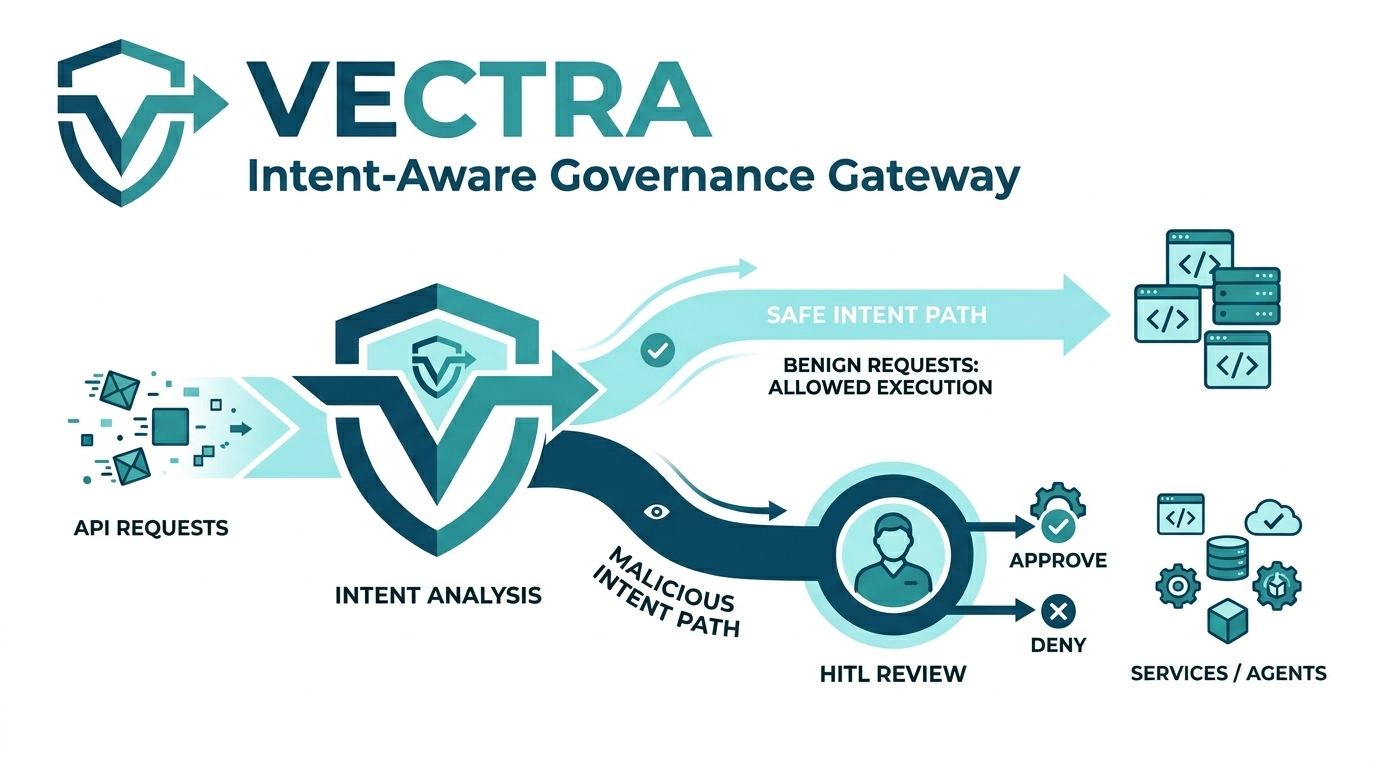
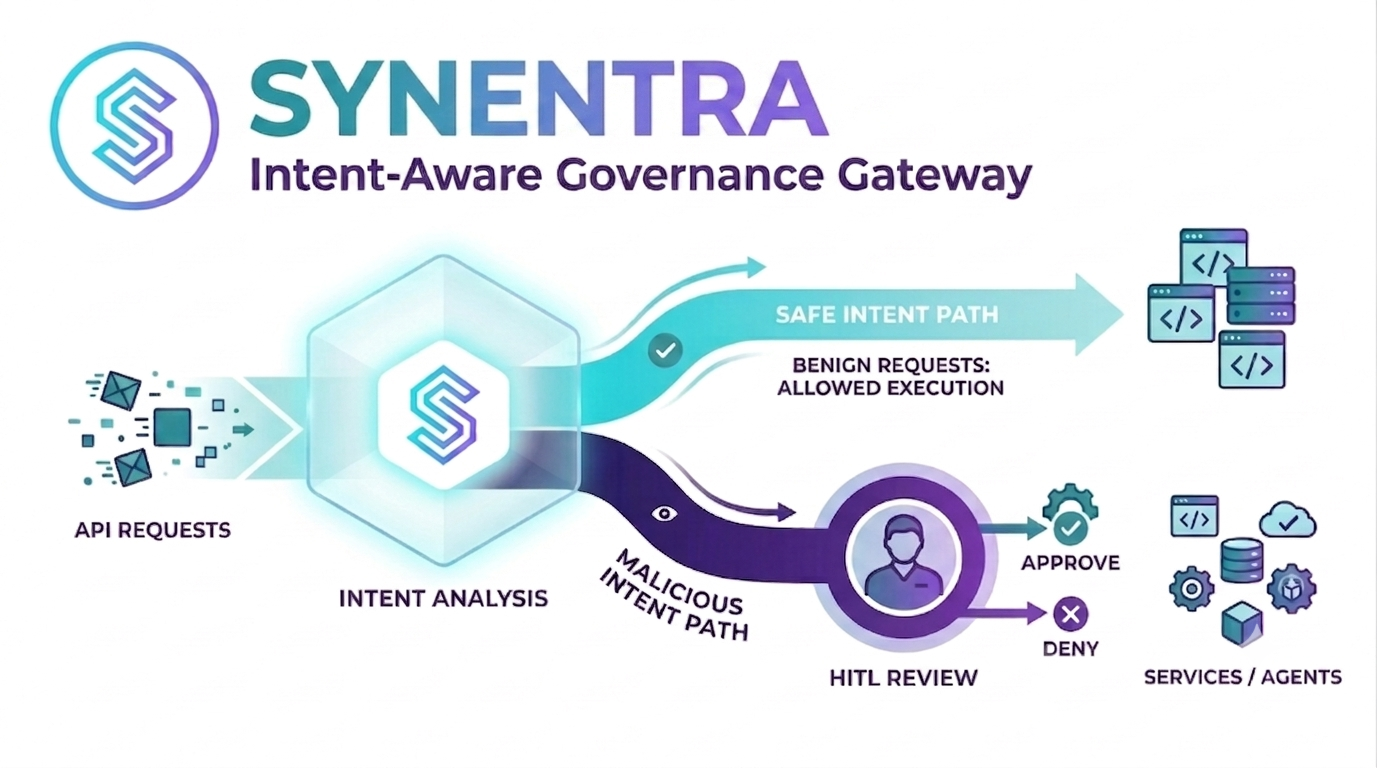
Rename project from Vectra to Synentra and update branding
All references in README.md updated to "Synentra", including Docker images, config files, URLs, and badges. Documentation and contribution links now point to Synentra resources. Replaced banner.png and logo.png with new Synentra-branded images.

#300

Changed region(s): [[0.0625, 0.3125, 0.9688, 0.9062], [0.0312, 0.0312, 0.75, 0.2812], [0.75, 0.2812, 0.9688, 0.5312]]

diff --git a/README.md b/README.md
@@ -1,6 +1,6 @@
 <div align="center">
-  <img src="/img/banner.png" alt="Vectra Banner" />
-  <h2>VECTRA — Intent-Aware Governance Gateway</h2>
+  <img src="/img/banner.png" alt="Synentra Banner" />
+  <h2>SYNENTRA — Intent-Aware Governance Gateway</h2>
 
   [![dotnet][dotnet-budge]][dotnet-url]
   [![Build Status][actions-badge]][actions-url]
@@ -17,9 +17,9 @@
 
 ## Table of Contents
 
-- [Overview](#overview-vectra)
+- [Overview](#overview-synentra)
   - [Key Capabilities](#key-capabilities)
-  - [Why VECTRA?](#why-vectra%3F)
+  - [Why SYNENTRA?](#why-synentra%3F)
 - [Key Features](#key-features)
 - [Architecture](#architecture)
 - [Quick Start](#quick-start)
@@ -34,32 +34,32 @@
   - [Ways to Get Involved](#ways-to-get-involved)
   - [Contributing Code](#contributing-code)
 - [License](#license)
-- [Support Vectra](#support-vectra)
+- [Support Synentra](#support-synentra)
 
-## Overview: VECTRA
+## Overview: SYNENTRA
 
-> 📖 For full documentation, visit **[docs.cortexium.dev/vectra](https://docs.cortexium.dev/vectra)**.
+> 📖 For full documentation, visit **[synentra.io/docs](https://synentra.io/docs)**.
 
-**VECTRA**
+**SYNENTRA**
 
-While traditional API gateways route traffic based on static endpoints and basic authentication, VECTRA introduces a semantic layer of security by evaluating the *actual intent* behind every API call. This allows developers to establish dynamic guardrails, ensuring that AI agents and automated systems operate strictly within defined behavioral boundaries.
+While traditional API gateways route traffic based on static endpoints and basic authentication, SYNENTRA introduces a semantic layer of security by evaluating the *actual intent* behind every API call. This allows developers to establish dynamic guardrails, ensuring that AI agents and automated systems operate strictly within defined behavioral boundaries.
 
 ### Key Capabilities
 
-* **Intent-Based Policy Enforcement:** Move beyond standard Role-Based Access Control (RBAC). VECTRA analyzes the underlying purpose of a request, allowing you to build context-aware policies that govern *what* an agent is trying to achieve, rather than just *who* the agent is.
-* **Human-in-the-Loop (HITL) Safeguards:** Not all automated actions should happen instantly. When VECTRA identifies an agent's intent as high-risk, potentially destructive, or malicious, it automatically intercepts the request. The gateway holds the action and routes it to a human operator for manual review and approval before execution.
-* **Precise Agent Governance:** As AI agents become more autonomous, the risk of unintended actions grows. VECTRA provides the fine-grained control necessary to oversee agent behavior, preventing systemic damage and ensuring compliance.
+* **Intent-Based Policy Enforcement:** Move beyond standard Role-Based Access Control (RBAC). SYNENTRA analyzes the underlying purpose of a request, allowing you to build context-aware policies that govern *what* an agent is trying to achieve, rather than just *who* the agent is.
+* **Human-in-the-Loop (HITL) Safeguards:** Not all automated actions should happen instantly. When SYNENTRA identifies an agent's intent as high-risk, potentially destructive, or malicious, it automatically intercepts the request. The gateway holds the action and routes it to a human operator for manual review and approval before execution.
+* **Precise Agent Governance:** As AI agents become more autonomous, the risk of unintended actions grows. SYNENTRA provides the fine-grained control necessary to oversee agent behavior, preventing systemic damage and ensuring compliance.
 
-### Why VECTRA?
+### Why SYNENTRA?
 
-As organizations deploy more LLM-driven agents and complex microservices, establishing trust in automated workflows is critical. VECTRA bridges the gap between automation and safety, providing the necessary oversight to let agents act freely while keeping humans firmly in control of critical decisions.
+As organizations deploy more LLM-driven agents and complex microservices, establishing trust in automated workflows is critical. SYNENTRA bridges the gap between automation and safety, providing the necessary oversight to let agents act freely while keeping humans firmly in control of critical decisions.
 
 ## Key Features
 
 * ✅**Semantic Intent Analysis:** Evaluates the underlying purpose of every request using natural language understanding, going far beyond simple endpoint matching.
 * ✅ **Dynamic Policy Enforcement:** Define and apply context-aware governance rules that adapt to agent behavior and request semantics in real time.
 * ✅ **Human-in-the-Loop (HITL):** Automatically intercepts high-risk or ambiguous requests and holds them for manual operator review before execution.
-* ✅ **HITL Notifications:** When a request is suspended for review, VECTRA can notify reviewers via Slack, Microsoft Teams, PagerDuty, or a generic webhook.
+* ✅ **HITL Notifications:** When a request is suspended for review, SYNENTRA can notify reviewers via Slack, Microsoft Teams, PagerDuty, or a generic webhook.
 * ✅ **Agent Governance:** Provides fine-grained controls to monitor, restrict, and audit autonomous AI agent actions across your systems.
 * ✅ **Agent Quarantine:** Automatically quarantine agents that fall below a trust score threshold, blocking all subsequent requests until manually lifted.
 * ✅ **Audit & Observability:** Maintains a full audit trail of agent intent classifications, policy decisions, and HITL review outcomes.
@@ -67,9 +67,9 @@ As organizations deploy more LLM-driven agents and complex microservices, establ
 
 ## Architecture
 
-![VECTRA Architecture](/img/architecture.jpg)
+![SYNENTRA Architecture](/img/architecture.jpg)
 
-Every inbound HTTP request from an AI Agent flows through three layers inside the **Vectra Gateway**:
+Every inbound HTTP request from an AI Agent flows through three layers inside the **SYNENTRA Gateway**:
 
 1. **Request Validation** — checks the API version header, authenticates the caller via JWT, and enforces rate limits. Failures are blocked immediately and recorded in the audit log.
 2. **Decision Engine** — valid requests are evaluated by three sequential steps:
@@ -85,40 +85,40 @@ Every inbound HTTP request from an AI Agent flows through three layers inside th
 
 ### Run via Docker
 
-The fastest way to get VECTRA running is with Docker:
+The fastest way to get SYNENTRA running is with Docker:
 
 ```bash
-docker pull ghcr.io/cortexiumlabs/vectra:latest
-docker run -p 708:7080 ghcr.io/cortexiumlabs/vectra:latest
+docker pull ghcr.io/synentra/synentra:latest
+docker run -p 708:7080 ghcr.io/synentra/synentra:latest
 ```
 
-VECTRA will be available at `http://localhost:7080`.
+SYNENTRA will be available at `http://localhost:7080`.
 
 To supply your own configuration, mount a config file:
 
 ```bash
 docker run -p 7080:7080 \
-  -v $(pwd)/vectra.json:/app/vectra.json \
-  ghcr.io/cortexiumlabs/vectra:latest
+  -v $(pwd)/synentra.json:/app/synentra.json \
+  ghcr.io/synentra/synentra:latest
 ```
 
 ### Use a Pre-Built Binary
 
-Pre-built binaries for Linux, macOS, and Windows are available on the [Releases](https://github.com/cortexiumlabs/vectra/releases) page.
+Pre-built binaries for Linux, macOS, and Windows are available on the [Releases](https://github.com/synentra/synentra/releases) page.
 
 1. Download the archive for your platform.
 2. Extract and make the binary executable (Linux/macOS):
 
 ```bash
-tar -xzf vectra-<version>-linux-x64.tar.gz
-chmod +x vectra
-./vectra
+tar -xzf synentra-<version>-linux-x64.tar.gz
+chmod +x synentra
+./synentra
 ```
 
 3. On Windows, run the extracted executable directly:
 
 ```powershell
-.\vectra.exe
+.\synentra.exe
 ```
 
 ### Build from Source
@@ -127,8 +127,8 @@ chmod +x vectra
 
 ```bash
 # Clone the repository
-git clone https://github.com/cortexiumlabs/vectra.git
-cd vectra
+git clone https://github.com/synentra/synentra.git
+cd synentra
 
 # Restore dependencies
 dotnet restore
@@ -137,7 +137,7 @@ dotnet restore
 dotnet build --configuration Release
 
 # Run the gateway
-dotnet run --project src/Vectra.Gateway --configuration Release
+dotnet run --project src/Synentra.Gateway --configuration Release
 ```
 
 To run the full test suite before running:
@@ -148,7 +148,7 @@ dotnet test --configuration Release
 
 ## Security
 
-Security is a first-class concern in VECTRA. We follow responsible disclosure practices and take all reports seriously.
+Security is a first-class concern in SYNENTRA. We follow responsible disclosure practices and take all reports seriously.
 
 ### Reporting a Vulnerability
 
@@ -156,8 +156,8 @@ Security is a first-class concern in VECTRA. We follow responsible disclosure pr
 
 If you discover a security vulnerability, report it privately through one of the following channels:
 
-* **GitHub Private Vulnerability Reporting:** Use the [Report a vulnerability](https://github.com/cortexiumlabs/vectra/security/advisories/new) button in the **Security** tab of the repository.
-* **Email:** Send details to [contact@cortexiumlabs.com](mailto:contact@cortexiumlabs.com) with the subject line `[VECTRA] Security Vulnerability`.
+* **GitHub Private Vulnerability Reporting:** Use the [Report a vulnerability](https://github.com/synentra/synentra/security/advisories/new) button in the **Security** tab of the repository.
+* **Email:** Send details to [contact@synentra.io](mailto:contact@synentra.io) with the subject line `[SYNENTRA] Security Vulnerability`.
 
 Please include:
 - A description of the vulnerability and its potential impact.
@@ -168,21 +168,21 @@ We aim to acknowledge reports within **48 hours** and provide a remediation time
 
 ### Security Policy
 
-The full security policy, including supported versions and disclosure process, is available in [SECURITY.md](https://github.com/cortexiumlabs/vectra/blob/main/SECURITY.md).
+The full security policy, including supported versions and disclosure process, is available in [SECURITY.md](https://github.com/synentra/synentra/blob/main/SECURITY.md).
 
 ### Dependency Scanning
 
-VECTRA uses [FOSSA](https://fossa.com) for continuous license and security scanning of all dependencies, and [SonarCloud](https://sonarcloud.io) for static analysis. Badge statuses are shown at the top of this file.
+SYNENTRA uses [FOSSA](https://fossa.com) for continuous license and security scanning of all dependencies, and [SonarCloud](https://sonarcloud.io) for static analysis. Badge statuses are shown at the top of this file.
 
 ## Community & Contributing
 
-VECTRA is built in the open and welcomes contributions of all kinds — bug reports, feature requests, documentation improvements, and code.
+SYNENTRA is built in the open and welcomes contributions of all kinds — bug reports, feature requests, documentation improvements, and code.
 
 ### Ways to Get Involved
 
-* 🐛 **Report a bug** — [Open an issue](https://github.com/cortexiumlabs/vectra/issues/new?template=bug_report.md) with steps to reproduce and expected vs. actual behaviour.
-* 💡 **Request a feature** — [Open a feature request issue](https://github.com/cortexiumlabs/vectra/issues/new?template=feature_request.md).
-* 🔍 **Pick up a good first issue** — Browse issues labelled [good first issue](https://github.com/cortexiumlabs/vectra/issues?q=is%3Aissue+is%3Aopen+label%3A%22good+first+issue%22) for beginner-friendly starting points.
+* 🐛 **Report a bug** — [Open an issue](https://github.com/synentra/synentra/issues/new?template=bug_report.md) with steps to reproduce and expected vs. actual behaviour.
+* 💡 **Request a feature** — [Open a feature request issue](https://github.com/synentra/synentra/issues/new?template=feature_request.md).
+* 🔍 **Pick up a good first issue** — Browse issues labelled [good first issue](https://github.com/synentra/synentra/issues?q=is%3Aissue+is%3Aopen+label%3A%22good+first+issue%22) for beginner-friendly starting points.
 * 📖 **Improve the docs** — Spotted something unclear or missing? PRs to docs are always welcome.
 
 ### Contributing Code
@@ -192,7 +192,7 @@ VECTRA is built in the open and welcomes contributions of all kinds — bug repo
 3. **Follow** the existing code style and conventions in the codebase.
 4. **Open a Pull Request** against `main` with a clear description of what changed and why.
 
-Please read [CONTRIBUTING.md](https://github.com/cortexiumlabs/vectra/blob/main/CONTRIBUTING.md) for the full contribution guidelines, code of conduct, and PR checklist before submitting.
+Please read [CONTRIBUTING.md](https://github.com/synentra/synentra/blob/main/CONTRIBUTING.md) for the full contribution guidelines, code of conduct, and PR checklist before submitting.
 
 ### Community
 
@@ -200,33 +200,33 @@ Please read [CONTRIBUTING.md](https://github.com/cortexiumlabs/vectra/blob/main/
 
 ## License
 
-Vectra is open-source and licensed under the **Apache 2.0 License**.  
-See [LICENSE](https://github.com/cortexiumlabs/vectra/blob/main/LICENSE) for details.
+SYNENTRA is open-source and licensed under the **Apache 2.0 License**.  
+See [LICENSE](https://github.com/synentra/synentra/blob/main/LICENSE) for details.
 
-## Support Vectra
-[![⭐ Star on GitHub](https://img.shields.io/badge/⭐%20Star%20on%20GitHub-555555?style=flat&logo=github)](https://github.com/cortexiumlabs/vectra)  
-✨ **Support Vectra by giving it a star!** ✨  
+## Support SYNENTRA
+[![⭐ Star on GitHub](https://img.shields.io/badge/⭐%20Star%20on%20GitHub-555555?style=flat&logo=github)](https://github.com/synentra/synentra)  
+✨ **Support SYNENTRA by giving it a star!** ✨  
 Your support helps others discover the project and drives continued innovation.
 
-[dotnet-budge]: https://img.shields.io/badge/.NET-10.0-green
+[dotnet-budge]: https://img.shields.io/badge/.NET-10.0-purple
 [dotnet-url]: https://dotnet.microsoft.com/en-us/download/dotnet/10.0
 [apache-badge]: https://img.shields.io/badge/License-Apache%202.0-blue.svg?style=flat&logo=github
 [apache-url]: https://opensource.org/licenses/Apache-2.0
-[actions-badge]: https://github.com/cortexiumlabs/vectra/actions/workflows/build.yml/badge.svg?branch=main
-[actions-url]: https://github.com/cortexiumlabs/vectra/actions?workflow=build
-[github-good-first-issue-badge]: https://img.shields.io/github/issues/cortexiumlabs/vectra/good%20first%20issue?style=flat-square&logo=github&label=good%20first%20issues
-[github-good-first-issue-url]: https://github.com/cortexiumlabs/vectra/issues?q=is%3Aissue+is%3Aopen+label%3A%22good+first+issue%22
-[sonarcloud-quality-gate-badge]: https://sonarcloud.io/api/project_badges/measure?project=cortexiumlabs_vectra&metric=alert_status&token=0b5b5ca3c5f12401df0abb73c369c8a620fc174a
-[sonarcloud-quality-gate-url]: https://sonarcloud.io/summary/new_code?id=cortexiumlabs_vectra
-[sonarcloud-reliability-gate-badge]: https://sonarcloud.io/api/project_badges/measure?project=cortexiumlabs_vectra&metric=reliability_rating&token=0b5b5ca3c5f12401df0abb73c369c8a620fc174a
-[sonarcloud-reliability-gate-url]: https://sonarcloud.io/summary/new_code?id=cortexiumlabs_vectra
-[sonarcloud-maintainability-gate-badge]: https://sonarcloud.io/api/project_badges/measure?project=cortexiumlabs_vectra&metric=sqale_rating&token=0b5b5ca3c5f12401df0abb73c369c8a620fc174a
-[sonarcloud-maintainability-gate-url]: https://sonarcloud.io/summary/new_code?id=cortexiumlabs_vectra
-[sonarcloud-security-gate-badge]: https://sonarcloud.io/api/project_badges/measure?project=cortexiumlabs_vectra&metric=security_rating&token=0b5b5ca3c5f12401df0abb73c369c8a620fc174a
-[sonarcloud-security-gate-url]: https://sonarcloud.io/summary/new_code?id=cortexiumlabs_vectra
-[sonarcloud-vulnerabilities-gate-badge]: https://sonarcloud.io/api/project_badges/measure?project=cortexiumlabs_vectra&metric=vulnerabilities&token=0b5b5ca3c5f12401df0abb73c369c8a620fc174a
-[sonarcloud-vulnerabilities-gate-url]: https://sonarcloud.io/summary/new_code?id=cortexiumlabs_vectra
-[fossa-license-badge]: https://app.fossa.com/api/projects/git%2Bgithub.com%2Fcortexiumlabs%2Fvectra.svg?type=shield&issueType=license
-[fossa-license-url]: https://app.fossa.com/projects/git%2Bgithub.com%2Fcortexiumlabs%2Fvectra?ref=badge_shield&issueType=license
-[fossa-security-badge]: https://app.fossa.com/api/projects/git%2Bgithub.com%2Fcortexiumlabs%2Fvectra.svg?type=shield&issueType=security
-[fossa-security-url]: https://app.fossa.com/projects/git%2Bgithub.com%2Fcortexiumlabs%2Fvectra?ref=badge_shield&issueType=security
+[actions-badge]: https://github.com/synentra/synentra/actions/workflows/build.yml/badge.svg?branch=main
+[actions-url]: https://github.com/synentra/synentra/actions?workflow=build
+[github-good-first-issue-badge]: https://img.shields.io/github/issues/synentra/synentra/good%20first%20issue?style=flat-square&logo=github&label=good%20first+issues
+[github-good-first-issue-url]: https://github.com/synentra/synentra/issues?q=is%3Aissue+is%3Aopen+label%3A%22good+first+issue%22
+[sonarcloud-quality-gate-badge]: https://sonarcloud.io/api/project_badges/measure?project=synentra_synentra&metric=alert_status&token=0b5b5ca3c5f12401df0abb73c369c8a620fc174a
+[sonarcloud-quality-gate-url]: https://sonarcloud.io/summary/new_code?id=synentra_synentra
+[sonarcloud-reliability-gate-badge]: https://sonarcloud.io/api/project_badges/measure?project=synentra_synentra&metric=reliability_rating&token=0b5b5ca3c5f12401df0abb73c369c8a620fc174a
+[sonarcloud-reliability-gate-url]: https://sonarcloud.io/summary/new_code?id=synentra_synentra
+[sonarcloud-maintainability-gate-badge]: https://sonarcloud.io/api/project_badges/measure?project=synentra_synentra&metric=sqale_rating&token=0b5b5ca3c5f12401df0abb73c369c8a620fc174a
+[sonarcloud-maintainability-gate-url]: https://sonarcloud.io/summary/new_code?id=synentra_synentra
+[sonarcloud-security-gate-badge]: https://sonarcloud.io/api/project_badges/measure?project=synentra_synentra&metric=security_rating&token=0b5b5ca3c5f12401df0abb73c369c8a620fc174a
+[sonarcloud-security-gate-url]: https://sonarcloud.io/summary/new_code?id=synentra_synentra
+[sonarcloud-vulnerabilities-gate-badge]: https://sonarcloud.io/api/project_badges/measure?project=synentra_synentra&metric=vulnerabilities&token=0b5b5ca3c5f12401df0abb73c369c8a620fc174a
+[sonarcloud-vulnerabilities-gate-url]: https://sonarcloud.io/summary/new_code?id=synentra_synentra
+[fossa-license-badge]: https://app.fossa.com/api/projects/git%2Bgithub.com%2Fsynentra%2Fsynentra.svg?type=shield&issueType=license
+[fossa-license-url]: https://app.fossa.com/projects/git%2Bgithub.com%2Fsynentra%2Fsynentra?ref=badge_shield&issueType=license
+[fossa-security-badge]: https://app.fossa.com/api/projects/git%2Bgithub.com%2Fsynentra%2Fsynentra.svg?type=shield&issueType=security
+[fossa-security-url]: https://app.fossa.com/projects/git%2Bgithub.com%2Fsynentra%2Fsynentra?ref=badge_shield&issueType=security
